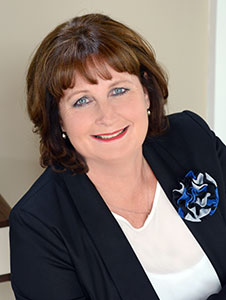
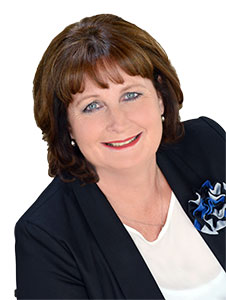
Updated Contact Us page with new trainers and profile pics
Added Janet Okaro and Ray Bachman. Improved the profile picture of
Debbie, Irene, Paul, Robyn and Jan.

diff --git a/user/pages/07.about/01.contact/01.locations/12.us-oregon/simple_contact.md b/user/pages/07.about/01.contact/01.locations/12.us-oregon/simple_contact.md
@@ -1,0 +1,32 @@
+---
+title: Oregon Office
+menu: false
+slug: oregon
+
+body_classes: "modular header-lite fullwidth about-us"
+bg_color: "#002b49"
+banner_image: theme://images/banners/about_us.jpg
+
+taxonomy:
+  category: about_us
+  tag: [about us, contact us,academy office,academy location]
+
+process:
+  markdown: false
+
+office:
+  location:
+    street: "300 S.W. Columbia St. #101"
+    city: Bend
+    region: Oregon
+    postcode: 97702
+    country: USA
+  phone: +1 541-388-7301
+  hours: |
+    **Monday - Friday**			9 am - 5 pm  
+    **Saturday - Sunday**			Closed  
+    **Holidays**					Closed
+
+simple_contact:
+  recipient: academy@harcourtsusa.com
+---

diff --git a/user/pages/07.about/01.contact/_team_02_australia/team.md b/user/pages/07.about/01.contact/_team_02_australia/team.md
@@ -5,9 +5,14 @@ menu: false
 members:
     - name: Paul Casarotto
       image: paul-casarotto.jpg
-      title: Academy Trainer
+      title: Academy Auction Trainer
       office: new-south-wales
       email: paul.casarotto@harcourts.net
+    - name: Janet Okaro
+      image: janet-okaro.jpg
+      title: Academy Sales and Technology Trainer
+      office: new-south-wales
+      email: janet.okaro@harcourts.net
     - name: Anthony Masci
       image: anthony-masci.jpg
       title: Academy Trainer

diff --git a/user/pages/07.about/01.contact/_team_04_other/team.md b/user/pages/07.about/01.contact/_team_04_other/team.md
@@ -13,6 +13,11 @@ members:
       title: Academy Trainer California
       office: california
       email: valerie.acevez@harcourtsusa.com
+    - name: Ray Bachman
+      image: ray-bachman.jpg
+      title: Academy Trainer Oregon
+      office: oregon
+      email: ray.bachman@harcourtsusa.com
 
 ---
 
